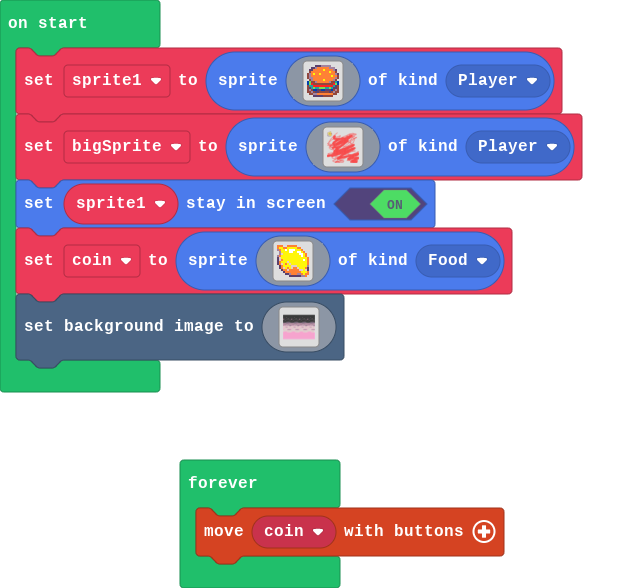
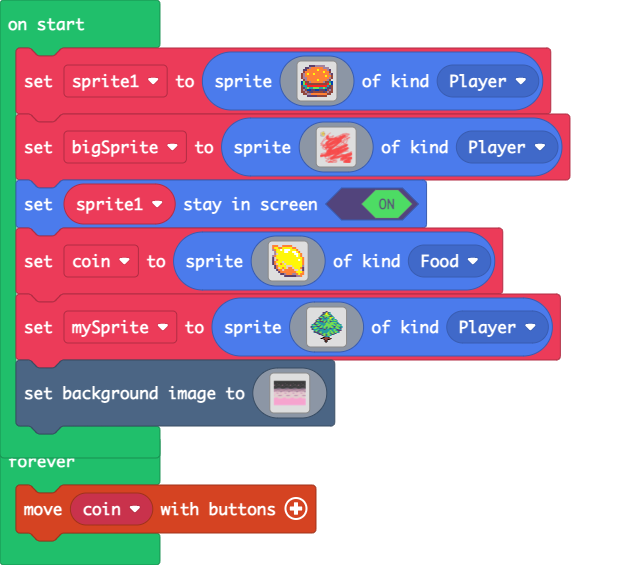
Update main.blocks, main.ts

diff --git a/main.ts b/main.ts
@@ -137,6 +137,40 @@ let coin = sprites.create(img`
     . . . . c c b 4 4 4 b b 4 5 4 4 
     . . . . . . c c c c c c b b 4 . 
     `, SpriteKind.Food)
+let mySprite = sprites.create(img`
+    ...............cc...............
+    ............ccc65c66............
+    ............c6c55c76............
+    ...........6cc7557c66...........
+    ..........cc77777577c6..........
+    .........666c677776cc66.........
+    ........c7776c7c67657576........
+    ........ccc666c666655666........
+    ......c66cc7666667777c6766......
+    .....c777c77667667767767776.....
+    .....cc66cccc77c677cc666666.....
+    ....c6766666c7c6767677777766....
+    ...cc777666666677767777667c66...
+    .666cc6677666667777777776677666.
+    .67776677c676677777776677677776.
+    cc6666ccc67767776777776cc7767666
+    c666777667766776c776777c67776c66
+    .c6777666ccc667c676cc666667776c.
+    .cc6666766666cc66666666776cc666.
+    ...66776c666666666677667766cccc.
+    ...cc76c66766666667677667776c...
+    ...6cccc677666666776777c77666...
+    ......6ccc7c67767776c776cc......
+    ........ccc6777c67776cc6........
+    ...........cc77c67766...........
+    .............6c6666.............
+    ............ffeeeef.............
+    ..........ffeeeeeeeef...........
+    .............feeeffe............
+    ..............fef...............
+    ..............fef...............
+    ...............f................
+    `, SpriteKind.Player)
 scene.setBackgroundImage(img`
     ffffffffffffffffffffffffffffffffffffffffffffffffffffffffffffffffffffffffffffffffffffffffffffffffffffffffffffffffffffffffffffffffffffffffffffffffffffffffffffffff
     ffffffffffffffffffffffffffffffffffffffffffffffffffffffffffffffffffffffffffffffffffffffffffffffffffffffffffffffffffffffffffffffffffffffffffffffffffffffffffffffff
